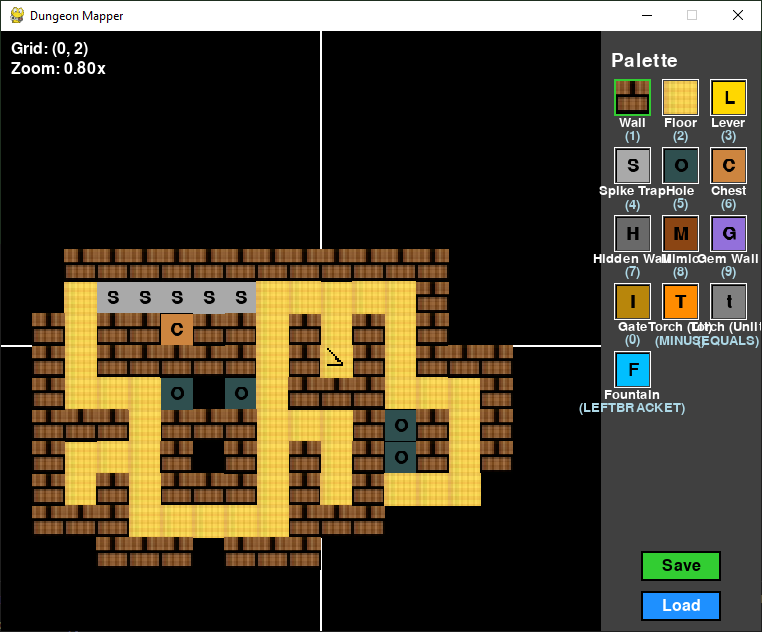
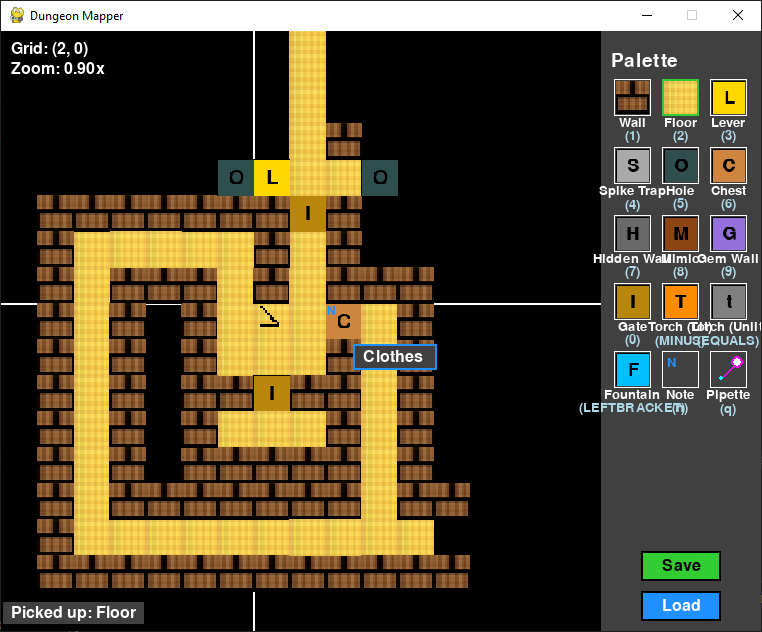
Fix status message not showing. New screenshot.

diff --git a/input_handler.py b/input_handler.py
@@ -34,7 +34,7 @@ reset_note_editing()
 
 def handle_keyboard_input(keys, tiles, selected_tile_id, all_tiles):
     """Handle keyboard input for navigation, tile selection, and shortcuts"""
-    global status_message, status_message_timer, editing_note, editing_pos, note_text
+    global editing_note, editing_pos, note_text
     # Import settings module to access its camera variables
     import settings
     
@@ -57,8 +57,8 @@ def handle_keyboard_input(keys, tiles, selected_tile_id, all_tiles):
         settings.camera_x = 0 - GRID_WIDTH_TILES / 2
         settings.camera_y = 0 - GRID_HEIGHT_TILES / 2
         
-        status_message = "Centered on origin"
-        status_message_timer = 60  # 1 second at 60 FPS
+        settings.status_message = "Centered on origin"
+        settings.status_message_timer = 60  # 1 second at 60 FPS
     
     # Handle hotkeys for tile selection
     for tile_id, tile in all_tiles.items():
@@ -118,7 +118,7 @@ def handle_mouse_motion(event, palette_rect, selected_tile_id=None, tiles=None):
 
 def handle_mouse_button(event, tiles, selected_tile_id, palette_rect):
     """Handle mouse button events"""
-    global drag_active, drag_start_x, drag_start_y, last_drag_time, editing_note, editing_pos, note_text, status_message, status_message_timer
+    global drag_active, drag_start_x, drag_start_y, last_drag_time, editing_note, editing_pos, note_text
     import settings  # Import to access notes dictionary
     
     # Skip normal interaction if we're editing a note and this isn't a note confirmation
@@ -147,12 +147,12 @@ def handle_mouse_button(event, tiles, selected_tile_id, palette_rect):
         if editing_note and cell_pos != editing_pos and event.button == 1:
             if note_text.strip():  # Only save if there's actual text
                 settings.notes[editing_pos] = note_text
-                status_message = f"Note saved at ({editing_pos[0]}, {editing_pos[1]})"
+                settings.status_message = f"Note saved at ({editing_pos[0]}, {editing_pos[1]})"
             else:  # If empty text, remove the note
                 if editing_pos in settings.notes:
                     del settings.notes[editing_pos]
-                status_message = f"Empty note deleted at ({editing_pos[0]}, {editing_pos[1]})"
-            status_message_timer = 60
+                settings.status_message = f"Empty note deleted at ({editing_pos[0]}, {editing_pos[1]})"
+            settings.status_message_timer = 60
             editing_note = False
             editing_pos = None
             note_text = ""
@@ -161,8 +161,8 @@ def handle_mouse_button(event, tiles, selected_tile_id, palette_rect):
         # Handle right-click to delete notes
         if event.button == 3 and cell_pos in settings.notes:
             del settings.notes[cell_pos]
-            status_message = f"Note deleted at ({cell_x}, {cell_y})"
-            status_message_timer = 60
+            settings.status_message = f"Note deleted at ({cell_x}, {cell_y})"
+            settings.status_message_timer = 60
             return
         
         # Handle notes with left click when NOTE is selected
@@ -177,8 +177,8 @@ def handle_mouse_button(event, tiles, selected_tile_id, palette_rect):
             note_text = settings.notes.get(cell_pos, "")  # Get existing text or empty string
             
             # Make status message more visible and clear
-            status_message = f"EDITING NOTE at ({cell_x}, {cell_y}) - Type your text and press ENTER to save"
-            status_message_timer = 300  # Show for 5 seconds (300 frames at 60 FPS)
+            settings.status_message = f"EDITING NOTE at ({cell_x}, {cell_y}) - Type your text and press ENTER to save"
+            settings.status_message_timer = 300  # Show for 5 seconds (300 frames at 60 FPS)
             
             return
         
@@ -252,15 +252,17 @@ def handle_mousewheel(event):
 
 def handle_mouse_interaction(pos, button, tiles, selected_tile_id):
     """Handle placing or removing tiles from the grid"""
+    # Import settings to access status variables
+    import settings
+    
     # Get the grid coordinates of the mouse click
     grid_x, grid_y = screen_to_grid(pos[0], pos[1])
     cell_x, cell_y = grid_to_cell(grid_x, grid_y)
     
     # Check if clicking on the entrance tile - prevent modification
     if (cell_x, cell_y) == (0, 0):
-        global status_message, status_message_timer
-        status_message = "Can't modify the entrance tile at (0,0)"
-        status_message_timer = 180  # 3 seconds at 60 FPS
+        settings.status_message = "Can't modify the entrance tile at (0,0)"
+        settings.status_message_timer = 180  # 3 seconds at 60 FPS
         return None
     
     # If pipette is selected and this is a left-click, try to pick up a tile
@@ -270,12 +272,12 @@ def handle_mouse_interaction(pos, button, tiles, selected_tile_id):
         
         # Only allow picking up palette tiles
         if tile_id in tiles and tiles[tile_id].is_palette_tile:
-            status_message = f"Picked up: {tiles[tile_id].name}"
-            status_message_timer = 120  # 2 seconds at 60 FPS
+            settings.status_message = f"Picked up: {tiles[tile_id].name}"
+            settings.status_message_timer = 120  # 2 seconds at 60 FPS
             return tile_id
         else:
-            status_message = "Can't pick up this tile"
-            status_message_timer = 120
+            settings.status_message = "Can't pick up this tile"
+            settings.status_message_timer = 120
             return None
             
     # Left click - place selected tile
@@ -290,7 +292,7 @@ def handle_mouse_interaction(pos, button, tiles, selected_tile_id):
 
 def check_keys_modifiers(event, all_tiles=None):
     """Check for keyboard shortcuts with modifiers"""
-    global status_message, status_message_timer, editing_note, note_text, editing_pos
+    global editing_note, note_text, editing_pos
     import settings  # Import to access notes dictionary
     
     # If we're editing a note, handle text editing
@@ -305,14 +307,14 @@ def check_keys_modifiers(event, all_tiles=None):
             # Save the note if there's text
             if note_text.strip():
                 settings.notes[editing_pos] = note_text
-                status_message = f"NOTE SAVED at ({editing_pos[0]}, {editing_pos[1]})"
+                settings.status_message = f"NOTE SAVED at ({editing_pos[0]}, {editing_pos[1]})"
             else:
                 # If empty text, remove the note
                 if editing_pos in settings.notes:
                     del settings.notes[editing_pos]
-                status_message = f"Empty note deleted at ({editing_pos[0]}, {editing_pos[1]})"
+                settings.status_message = f"Empty note deleted at ({editing_pos[0]}, {editing_pos[1]})"
             
-            status_message_timer = 180  # 3 seconds at 60 FPS
+            settings.status_message_timer = 180  # 3 seconds at 60 FPS
             editing_note = False
             editing_pos = None
             return True
@@ -322,8 +324,8 @@ def check_keys_modifiers(event, all_tiles=None):
             editing_note = False
             editing_pos = None
             note_text = ""
-            status_message = "NOTE EDITING CANCELED"
-            status_message_timer = 180  # 3 seconds at 60 FPS
+            settings.status_message = "NOTE EDITING CANCELED"
+            settings.status_message_timer = 180  # 3 seconds at 60 FPS
             return True
             
         # Add normal characters to note

diff --git a/file_io.py b/file_io.py
@@ -39,14 +39,13 @@ def show_load_dialog():
 
 def save_map(grid, camera_pos=None, zoom=None):
     """Save the map to a file"""
-    global status_message, status_message_timer
     import settings
     
     # Get file path from dialog
     file_path = show_save_dialog()
     if not file_path:
-        status_message = "Save cancelled."
-        status_message_timer = 180  # 3 seconds at 60 FPS
+        settings.status_message = "Save cancelled."
+        settings.status_message_timer = 180  # 3 seconds at 60 FPS
         return
     
     try:
@@ -71,29 +70,28 @@ def save_map(grid, camera_pos=None, zoom=None):
         with open(file_path, 'w') as f:
             json.dump(map_data, f)
         
-        status_message = f"Map saved: {os.path.basename(file_path)}"
-        status_message_timer = 180  # 3 seconds at 60 FPS
+        settings.status_message = f"Map saved: {os.path.basename(file_path)}"
+        settings.status_message_timer = 180  # 3 seconds at 60 FPS
         
     except Exception as e:
-        status_message = f"Error saving map: {str(e)}"
-        status_message_timer = 300  # 5 seconds at 60 FPS
+        settings.status_message = f"Error saving map: {str(e)}"
+        settings.status_message_timer = 300  # 5 seconds at 60 FPS
 
 def load_map(tiles):
     """Load the map from a file"""
-    global grid, status_message, status_message_timer
     import settings
     
     # Handle case when tiles is None (called from keyboard shortcut)
     if tiles is None:
-        status_message = "Can't load without tile data. Use the button instead."
-        status_message_timer = 180  # 3 seconds at 60 FPS
+        settings.status_message = "Can't load without tile data. Use the button instead."
+        settings.status_message_timer = 180  # 3 seconds at 60 FPS
         return
     
     # Get file path from dialog
     file_path = show_load_dialog()
     if not file_path:
-        status_message = "Load cancelled."
-        status_message_timer = 180  # 3 seconds at 60 FPS
+        settings.status_message = "Load cancelled."
+        settings.status_message_timer = 180  # 3 seconds at 60 FPS
         return
     
     try:
@@ -141,9 +139,9 @@ def load_map(tiles):
         # Add entrance tile
         set_entrance_tile(grid, tiles)
             
-        status_message = f"Map loaded: {os.path.basename(file_path)}"
-        status_message_timer = 180  # 3 seconds at 60 FPS
+        settings.status_message = f"Map loaded: {os.path.basename(file_path)}"
+        settings.status_message_timer = 180  # 3 seconds at 60 FPS
         
     except Exception as e:
-        status_message = f"Error loading map: {str(e)}"
-        status_message_timer = 300  # 5 seconds at 60 FPS 
+        settings.status_message = f"Error loading map: {str(e)}"
+        settings.status_message_timer = 300  # 5 seconds at 60 FPS 

diff --git a/ui.py b/ui.py
@@ -81,9 +81,12 @@ def draw_coordinates(surface, mouse_pos):
 
 def draw_status_message(surface):
     """Draw the status message at the bottom of the screen"""
-    if status_message and status_message_timer > 0:
+    # Import settings to access status variables
+    import settings
+    
+    if settings.status_message and settings.status_message_timer > 0:
         font = pygame.font.SysFont(None, 24)
-        text_surface = font.render(status_message, True, WHITE)
+        text_surface = font.render(settings.status_message, True, WHITE)
         text_rect = text_surface.get_rect(bottomleft=(10, WINDOW_HEIGHT - 10))
         
         # Draw background for better visibility

diff --git a/main.py b/main.py
@@ -61,11 +61,12 @@ def wrap_text(text, font, max_width):
 
 def fixed_update():
     """Update logic that happens every frame"""
-    global status_message_timer
+    # Import settings to access status message timer
+    import settings
     
     # Decrease status message timer if active
-    if status_message_timer > 0:
-        status_message_timer -= 1
+    if settings.status_message_timer > 0:
+        settings.status_message_timer -= 1
 
 def initialize():
     """Initialize the game"""
